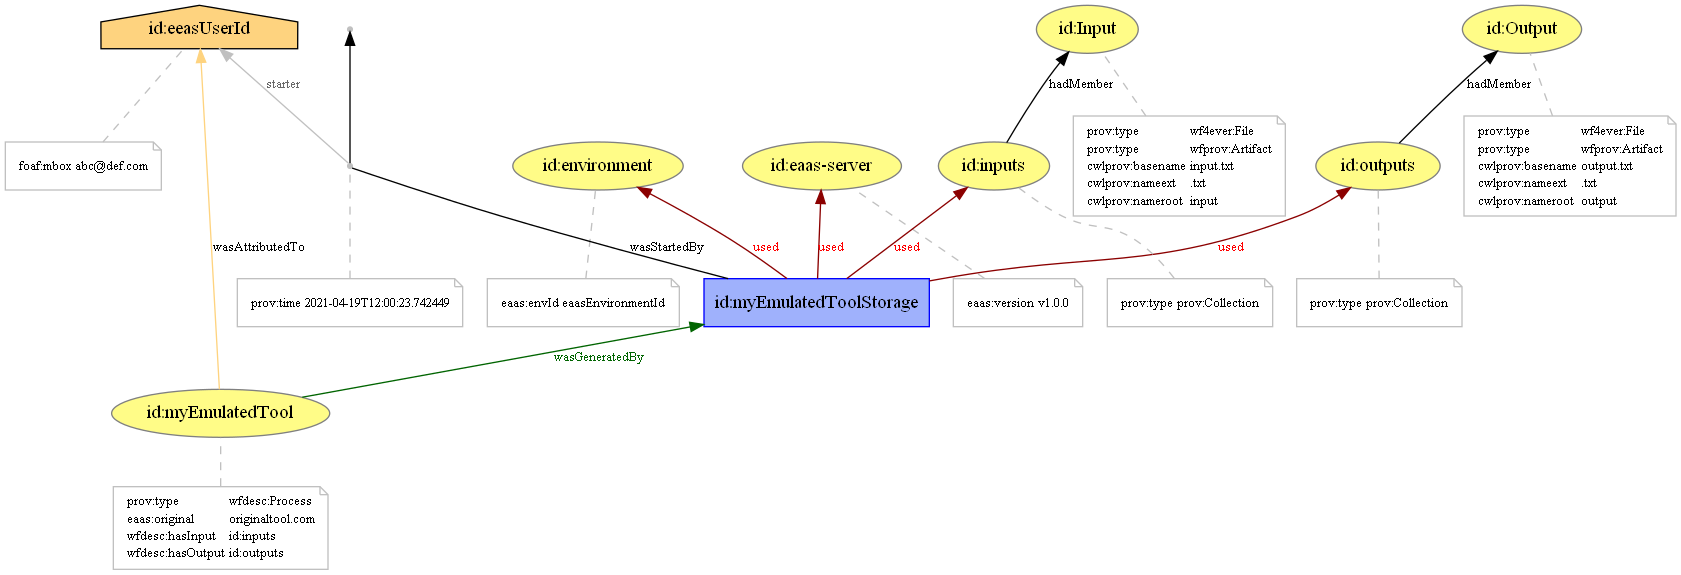
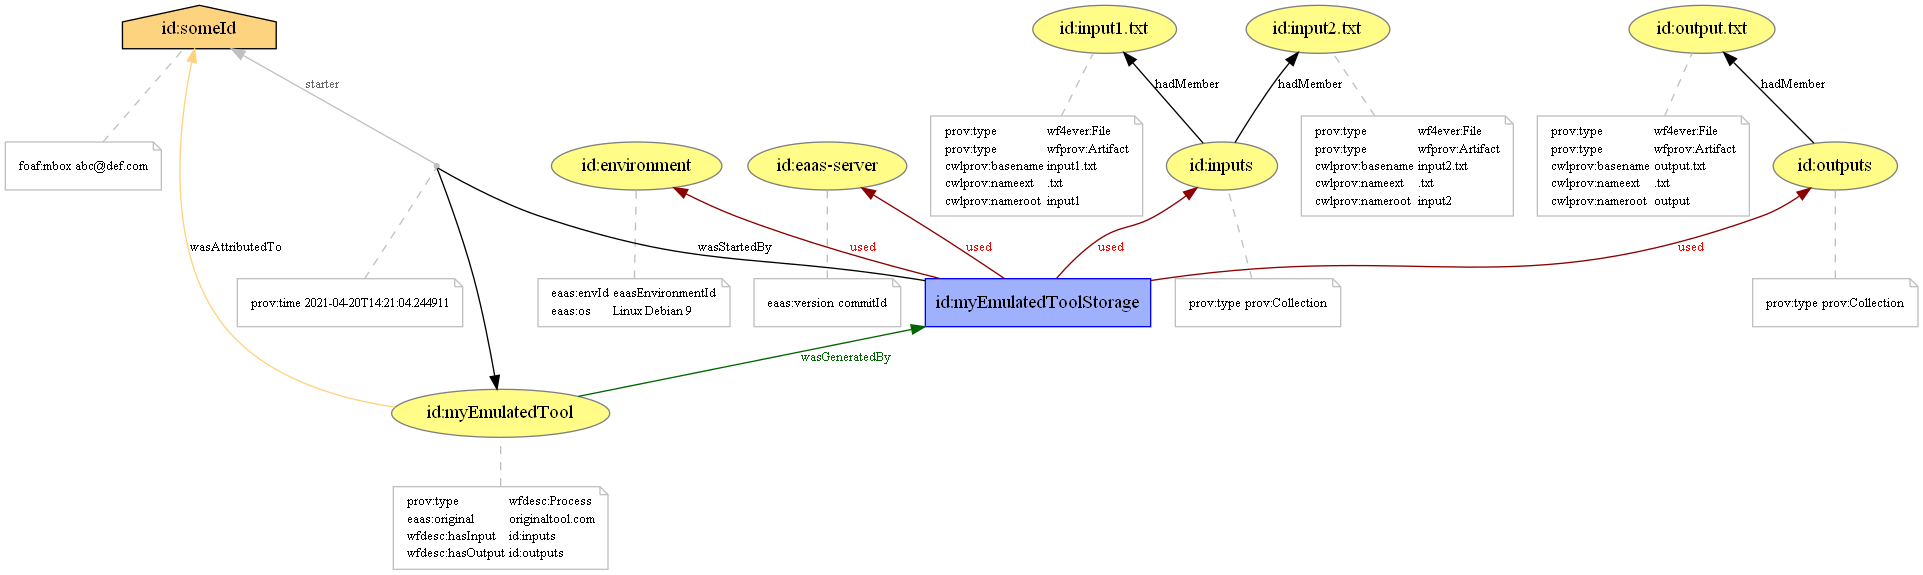
make tool work with json file

diff --git a/main.py b/main.py
@@ -1,6 +1,33 @@
 import datetime
+import json
+import os
+
 import prov
 from prov.dot import prov_to_dot
+
+
+def prefixedString(prefix, string):
+    return prefix + ":" + string
+
+
+def addFilesToCollection(collection, files):
+    for file in files:
+        filename = file["filename"]
+        root, extension = os.path.splitext(filename)
+
+        collection.hadMember(prefixedString(ID, filename))
+
+        output1 = d1.entity(prefixedString(ID, filename),
+                            [("prov:type", "wfprov:Artifact"), ("prov:type", "wf4ever:File")])
+
+        output1.add_attributes({"cwlprov:basename": filename,
+                                "cwlprov:nameroot": root,
+                                "cwlprov:nameext": extension})
+
+
+
+ID = "id"
+EAAS = "eaas"
 
 if __name__ == '__main__':
     # my_prov = prov.read(
@@ -61,6 +88,17 @@ if __name__ == '__main__':
     os: operating system that is used in an environment
     """
 
+    with open("example.json") as json_file:
+        fileFromBackend = json.load(json_file)
+        print(fileFromBackend)
+
+    file_environment = fileFromBackend["environment"]
+    user = fileFromBackend["user"]
+    file_input = fileFromBackend["input"]
+    file_output = fileFromBackend["output"]
+    metadata = fileFromBackend["metadata"]
+    other = fileFromBackend["other"]
+
     d1.add_namespace('eaas', 'whatever')
     d1.add_namespace('foaf', 'http://www.w3.org/ns/prov#')
     d1.add_namespace("wf4ever", "http://purl.org/wf4ever/wf4ever#")
@@ -68,49 +106,66 @@ if __name__ == '__main__':
     d1.add_namespace("cwlprov", "https://w3id.org/cwl/prov#")
     d1.add_namespace("wfdesc", "http://purl.org/wf4ever/wfdesc#")
 
-    d1.agent("id:eeasUserId", {"foaf:mbox": "abc@def.com"})
+    user = d1.agent(prefixedString(ID, user["userID"]), {"foaf:mbox": user["userMail"]})
 
-    d1.entity("id:myEmulatedTool",
-              {"prov:type": "wfdesc:Process", "wfdesc:hasInput": "id:inputs",
-               "wfdesc:hasOutput": "id:outputs", "eaas:original": "originaltool.com"})
+    tool = d1.entity("id:myEmulatedTool",
+                     {"prov:type": "wfdesc:Process", "wfdesc:hasInput": "id:inputs",
+                      "wfdesc:hasOutput": "id:outputs", "eaas:original": metadata["original"]})
 
-    d1.entity("id:eaas-server", {"eaas:version": "v1.0.0"})
-    d1.entity("id:environment", {"eaas:envId": "eaasEnvironmentId", "eaas:os": "Linux Debian 9"})
+    eaas_server = d1.entity("id:eaas-server",
+                            {prefixedString(EAAS, "version"): other["eaasVersion"]})
+    environment = d1.entity("id:environment",
+                            {prefixedString(EAAS, "envId"): file_environment["environmentId"],
+                             prefixedString(EAAS, "os"): file_environment["os"]})
 
     # TODO enable revision stuff
 
-    d1.wasAttributedTo("id:myEmulatedTool", "id:eeasUserId")
+    tool.wasAttributedTo(user)
 
     emulation_activity = d1.activity("id:myEmulatedToolStorage")
-    d1.wasStartedBy("id:myEmulatedToolStorage", starter="id:eeasUserId",
-                    time=datetime.datetime.now())
+    emulation_activity.wasStartedBy(tool, starter=user, time=datetime.datetime.now())
 
-    emulation_activity.used("id:eaas-server")
-    emulation_activity.used("id:environment")
+    tool.wasGeneratedBy(emulation_activity)
+
+    emulation_activity.used(eaas_server)
+    emulation_activity.used(environment)
     emulation_activity.used("id:inputs")
     emulation_activity.used("id:outputs")
 
-    d1.wasGeneratedBy("id:myEmulatedTool", "id:myEmulatedToolStorage")
-
     inputs = d1.collection("id:inputs")
-    inputs.hadMember("id:Input")
-
-    input1 = d1.entity("id:Input",
-                       [("prov:type", "wfprov:Artifact"), ("prov:type", "wf4ever:File")])
-
-    input1.add_attributes({"cwlprov:basename": "input.txt",
-                           "cwlprov:nameroot": "input",
-                           "cwlprov:nameext": ".txt"})
-
     outputs = d1.collection("id:outputs")
-    outputs.hadMember("id:Output")
 
-    output1 = d1.entity("id:Output",
-                        [("prov:type", "wfprov:Artifact"), ("prov:type", "wf4ever:File")])
+    addFilesToCollection(inputs, file_input)
+    addFilesToCollection(outputs, file_output)
 
-    output1.add_attributes({"cwlprov:basename": "output.txt",
-                            "cwlprov:nameroot": "output",
-                            "cwlprov:nameext": ".txt"})
+    # for inp_file in file_input:
+    #     filename = inp_file["filename"]
+    #     root, extension = os.path.splitext(filename)
+    #     inputs.hadMember(prefixedString(ID, filename))
+    #
+    #     input1 = d1.entity(prefixedString(ID, filename),
+    #                        [("prov:type", "wfprov:Artifact"), ("prov:type", "wf4ever:File")])
+    #
+    #     input1.add_attributes({"cwlprov:basename": filename,
+    #                            "cwlprov:nameroot": root,
+    #                            "cwlprov:nameext": inputs})
+    #
+    # outputs = d1.collection("id:outputs")
+    #
+    # for out_file in file_output:
+    #     filename = out_file["filename"]
+    #     root, extension = os.path.splitext(filename)
+    #
+    #     outputs.hadMember(prefixedString(ID, filename))
+    #
+    #     output1 = d1.entity(prefixedString(ID, filename),
+    #                         [("prov:type", "wfprov:Artifact"), ("prov:type", "wf4ever:File")])
+    #
+    #     output1.add_attributes({"cwlprov:basename": filename,
+    #                             "cwlprov:nameroot": root,
+    #                             "cwlprov:nameext": extension})
+
+
 
     """
     Agent (Nutzer)
@@ -139,6 +194,7 @@ if __name__ == '__main__':
     # d1.serialize('article-prov.ttl', format='rdf', rdf_format='ttl')
     d1.serialize("test-prov.json", format="json");
 
+    dot = prov_to_dot(d1)
+    dot.write_png('article-prov.png')
 
-    # dot = prov_to_dot(d1)
-    # dot.write_png('article-prov.png')
+
